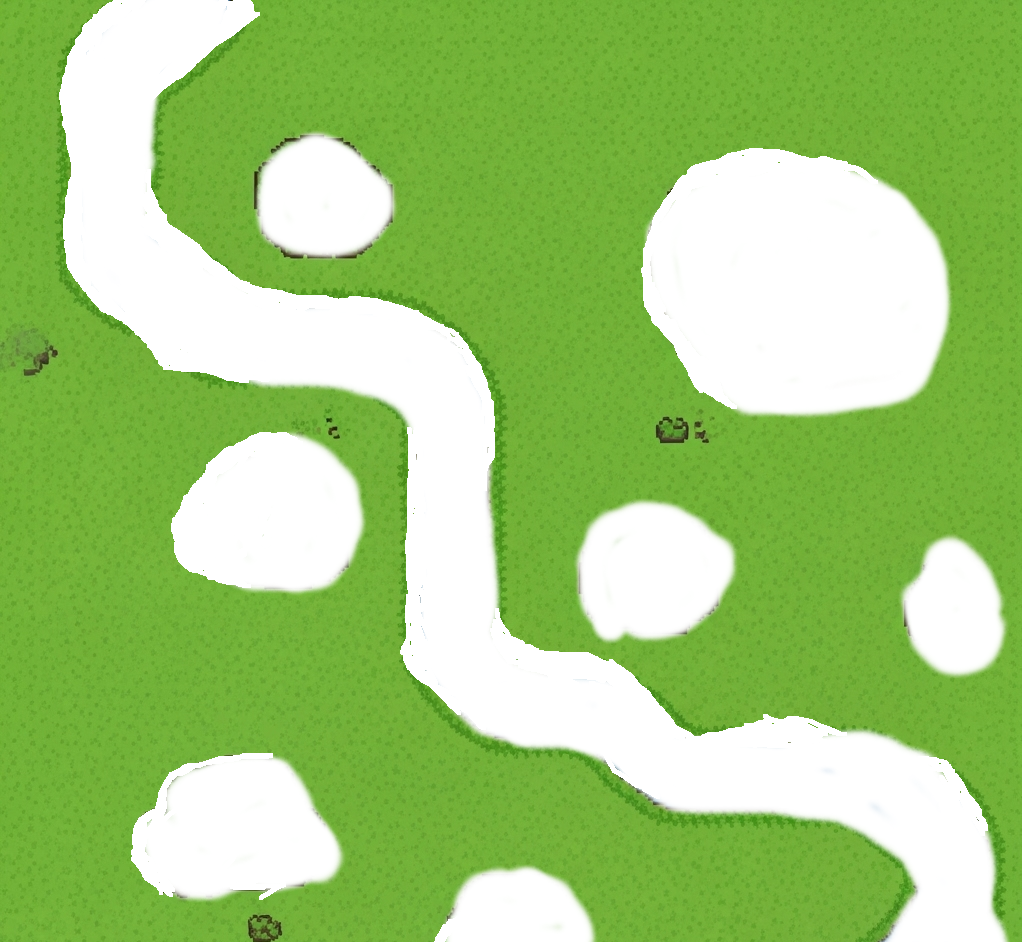
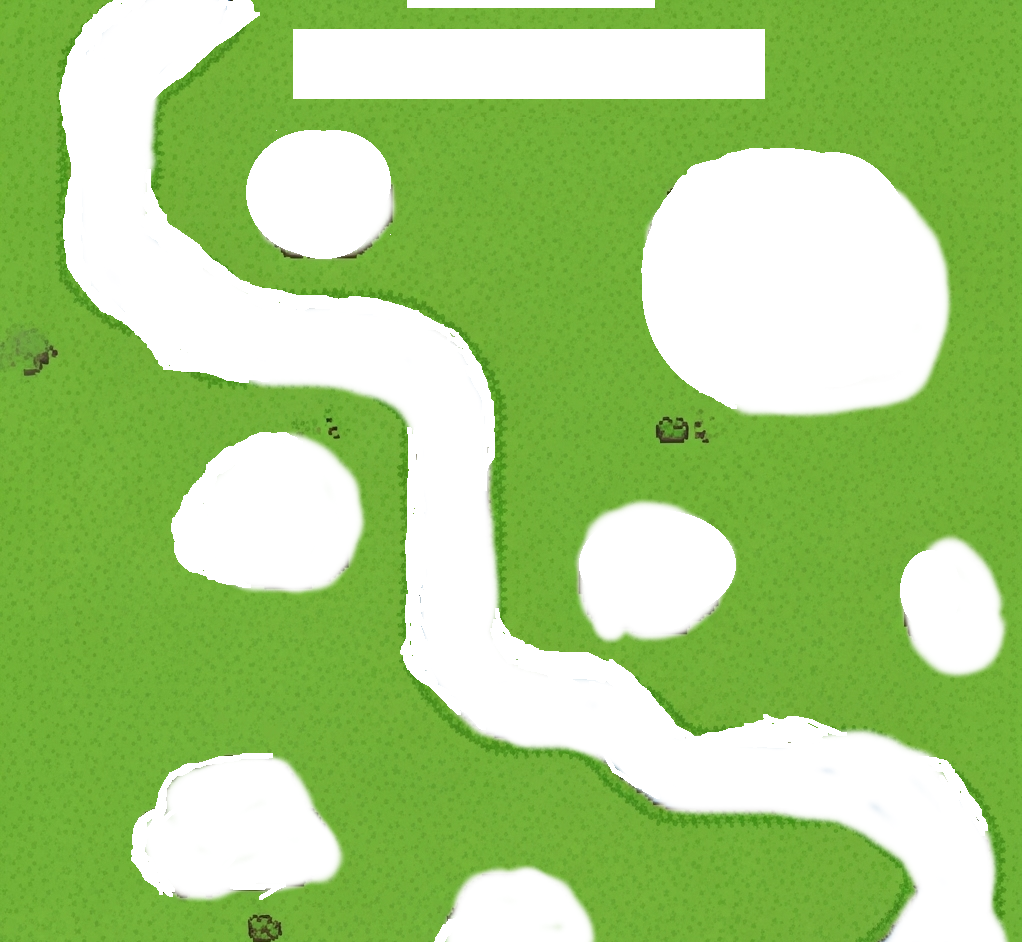
Adding a background to the level text

diff --git a/main.py b/main.py
@@ -43,6 +43,11 @@ start_img = pg.transform.scale(start_img, (screen.get_width(), screen.get_height
 toolbar_image = pg.image.load('Assets/kepek/JobbHatter.png')  # Kép betöltése
 toolbar_image = pg.transform.scale(toolbar_image, (c.Side_panel, map_rect.height))  # Méretezés
 
+
+#Table betöltése
+table_img=pg.image.load('Assets/kepek/Table.png').convert_alpha()
+table_img=pg.transform.scale(table_img, (400,100))
+
 # Ellenség betöltése
 enemy_fish_img1 = pg.image.load('Assets/kepek/Enemy/piroshal.png').convert_alpha()  # Első kép
 enemy_fish_img2 = pg.image.load('Assets/kepek/Enemy/kekhal.png').convert_alpha()  # Második kép
@@ -305,10 +310,6 @@ while running:
         toolbar_rect = pg.Rect(map_rect.width, 0, c.Side_panel, map_rect.height)
         screen.blit(toolbar_image, toolbar_rect)
 
-        # Törlés mód szöveg kiírása
-        if deleting_towers:
-            draw_text("Törlés mód aktív!", text_font, (255, 0, 0), map_rect.width + 10, c.start_y - 40)
-
         # új ellenség spawnolása idő alapján
         current_time = pg.time.get_ticks()
         if current_time - last_spawn_time > SPAWN_DELAY:
@@ -338,7 +339,8 @@ while running:
         enemy_group.draw(screen)
         draw_text(str(world.health), text_font, "black", 5, 40)
         draw_text(str(world.money), text_font, "black", 5, 80)
-        draw_text("Level: " + str(world.level), large_font, "black", 450, 40)
+        screen.blit(table_img, (330,35))
+        draw_text("Level: " + str(world.level), large_font, "black", 455, 45)
 
         # Pénz és szív ikonok kirajzolása
         screen.blit(heart_img, (10, 40 + 20))
